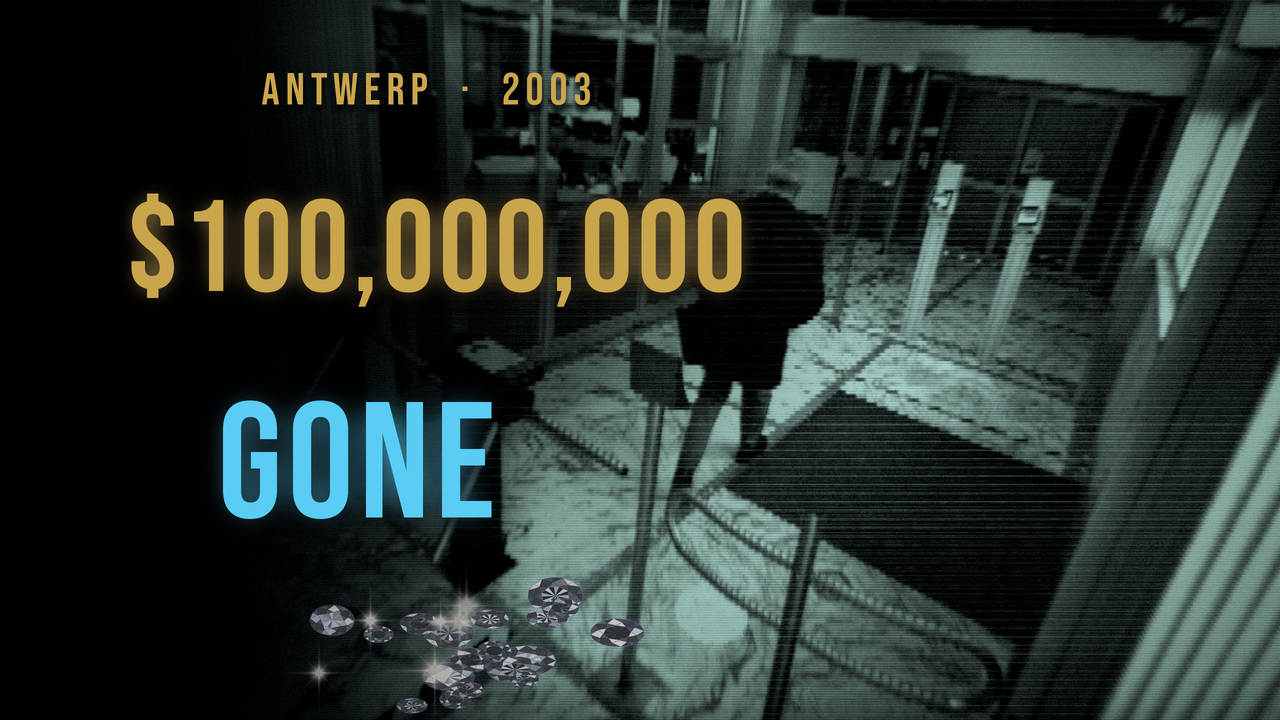
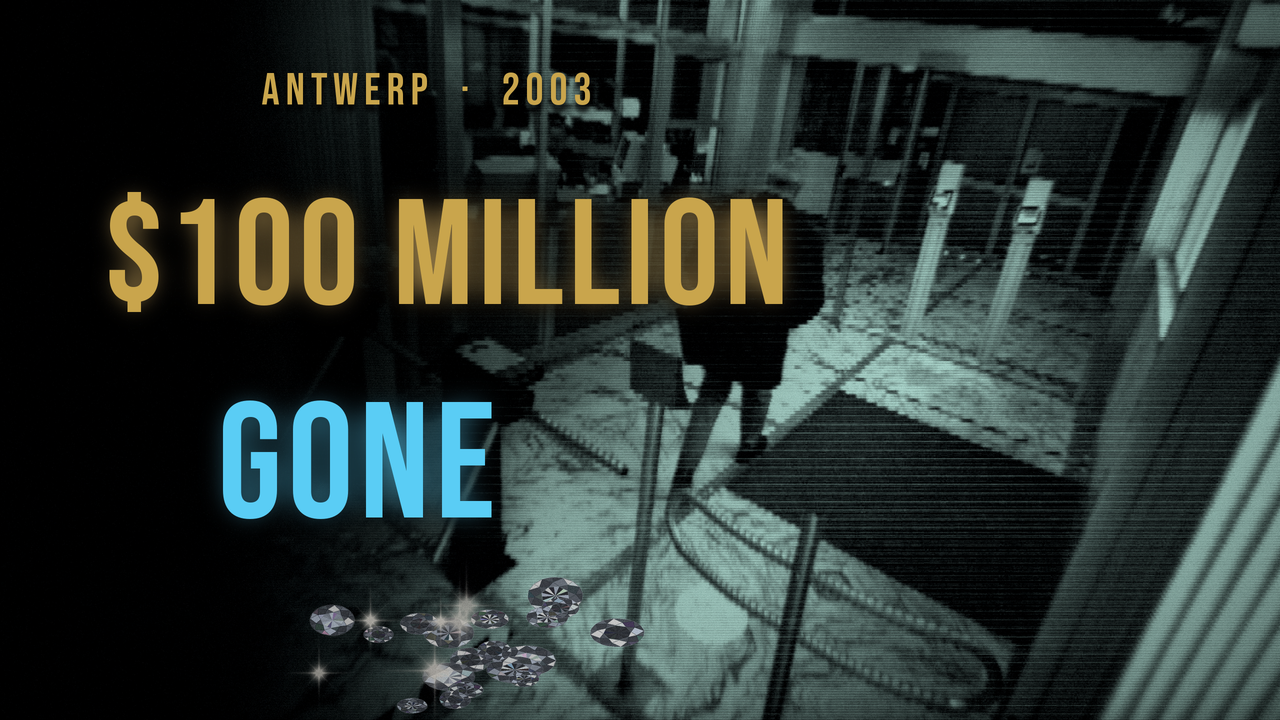
Antwerp thumbnail: $100 MILLION wording
Claude-Session: https://claude.ai/code/session_01E5Mjn7bpWzLNxZwAD9kq1G

Changed region(s): [[0.0625, 0.2444, 0.625, 0.4278]]

diff --git a/WAR_FILES_CHANNEL_REFRESH/src/refresh.py b/WAR_FILES_CHANNEL_REFRESH/src/refresh.py
@@ -232,7 +232,7 @@ def antwerp_1b():   # big number + the surveillance-style still (owner-supplied)
     diamonds_pile(cv, X3 + 80, TH * 0.90, 18, 300, 4)
     cv = burn(cv, TW * 0.28, TH * 0.42, TW * 0.30, TH * 0.36, 0.7); cv = grade(cv)
     paste(cv, word("ANTWERP  ·  2003", 90, GOLD, track=12), X3, Y3 * 0.38, "cm")
-    paste(cv, word("$100,000,000", 260, GOLD, glow_col=(255, 210, 120)), X3 + 20, Y3 * 1.05, "cm")
+    paste(cv, word("$100 MILLION", 300, GOLD, glow_col=(255, 210, 120)), X3 + 40, Y3 * 1.08, "cm")
     paste(cv, word("GONE", 330, CYAN, glow_col=CYAN), X3 - 140, Y3 * 1.95, "cm")
     return cv
 
